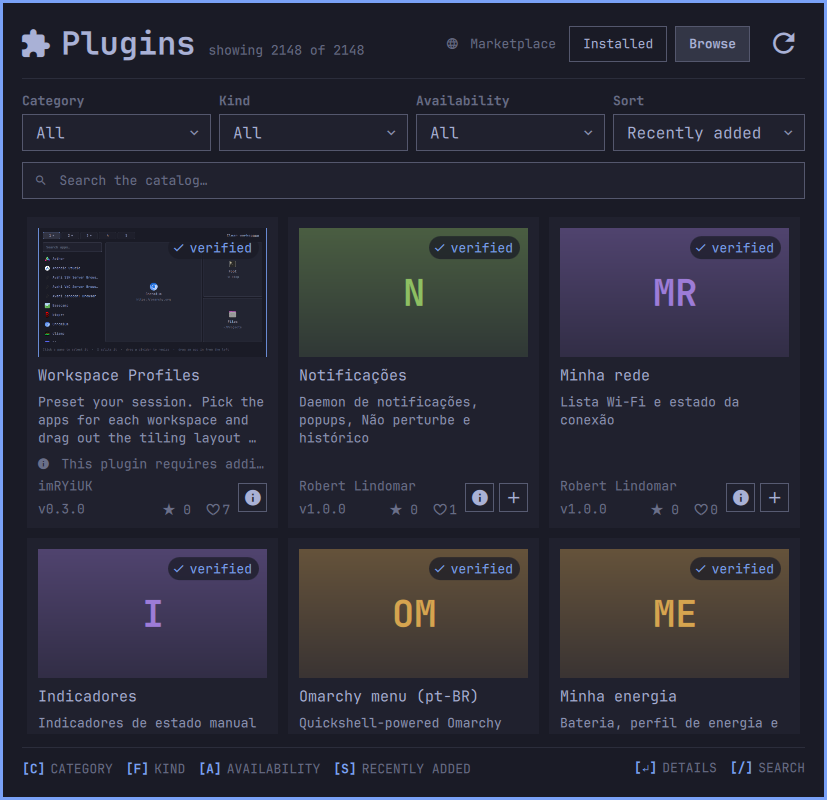
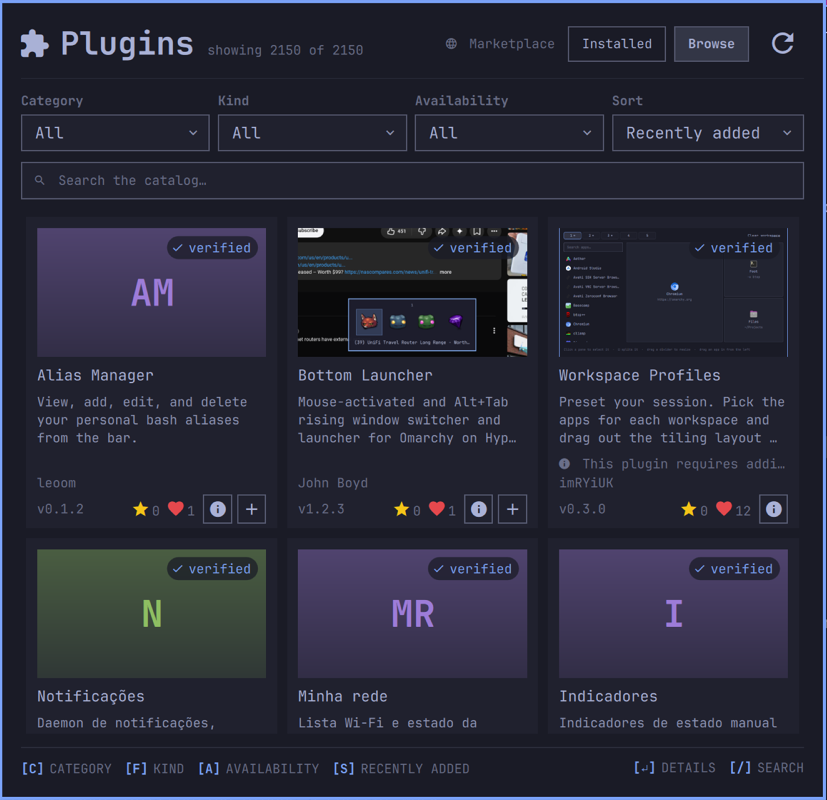
docs: refresh preview screenshots and describe the coloured card metrics

diff --git a/README.md b/README.md
@@ -191,9 +191,11 @@ land in whichever browser `omarchy default browser` selected, and only trusted
 `https://` URLs are passed to it. Use `Tab`, arrow keys, or `Shift+Tab` to move
 between details actions, `Enter` to activate one, and `Esc` to close.
 
-The creator gets one line and the catalog version shares the next with `★`
-GitHub stars and `♥` anonymous Marketplace hearts. The
-metrics stay separate: stars come from each `catalog.json` listing, while hearts
+The creator gets one line and the catalog version shares the next with a
+yellow star for GitHub stars and a red heart for anonymous Marketplace hearts,
+each count sitting on its icon's baseline beside the details and install
+buttons. The metrics stay separate: stars come from each `catalog.json`
+listing, while hearts
 come from `https://api.omarchyplugins.com/v1/stats` at
 `plugins[pluginId].hearts`. Missing or malformed counts are omitted rather than
 shown as zero.
